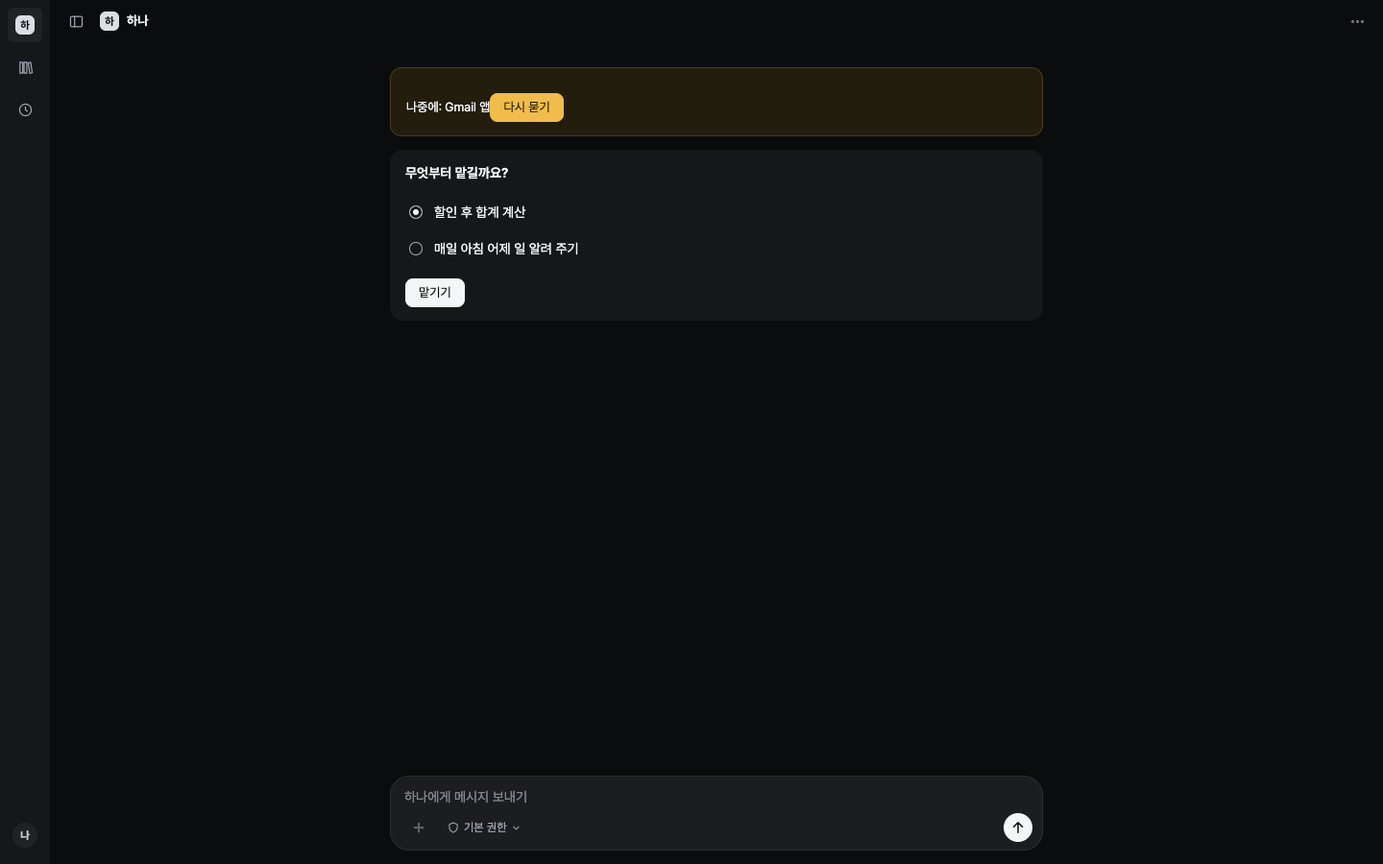
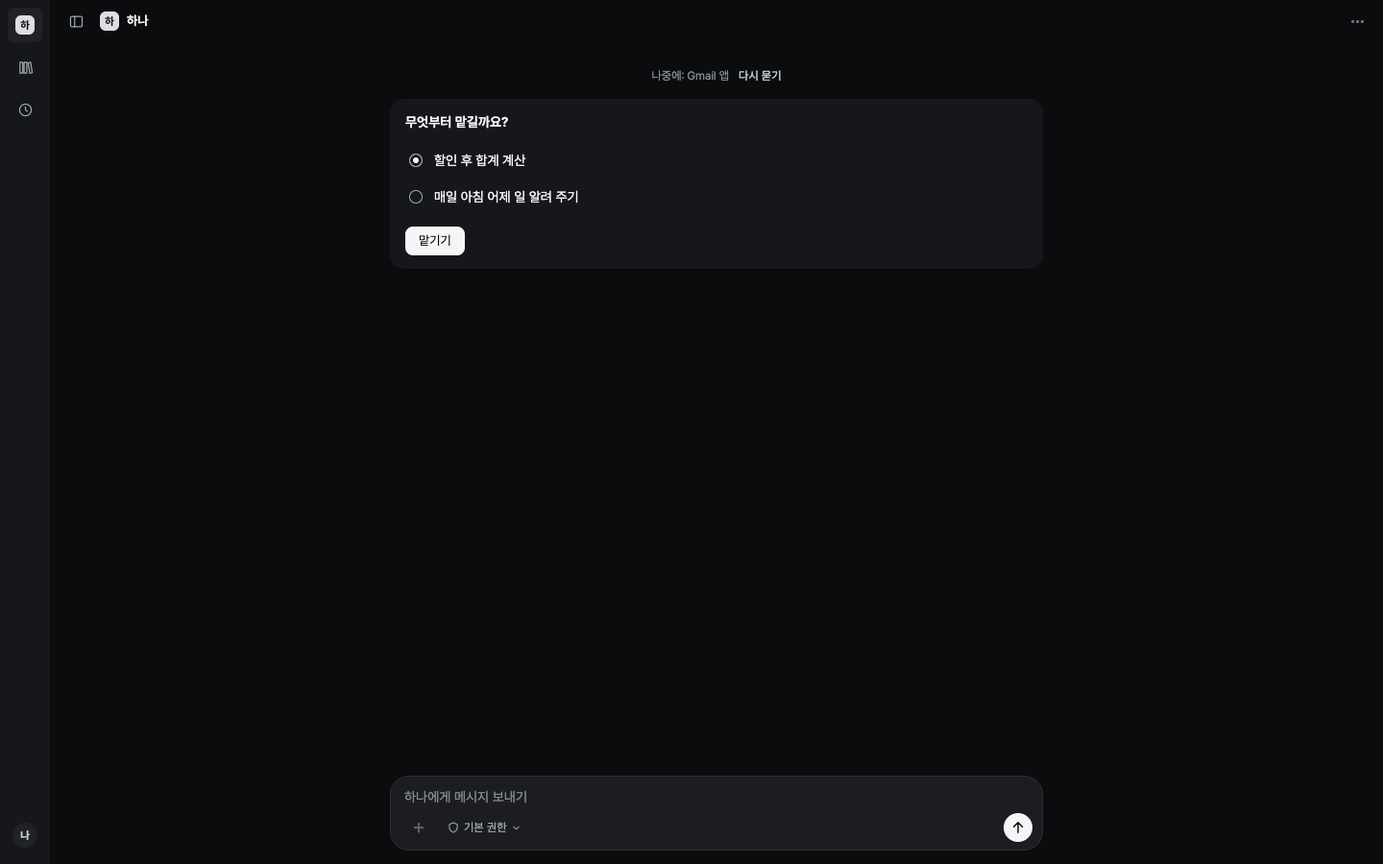
fix(ui): fence onboarding and match first experience artboards

Changed region(s): [[0.2812, 0.0933, 0.4062, 0.3733], [0.4688, 0.0622, 0.5625, 0.0933]]

diff --git a/src/first-experience.ts b/src/first-experience.ts
@@ -1,10 +1,10 @@
 import {copy} from './ui-copy.ts';
-export const firstStyle=String.raw`.first-signin.page-body{height:100vh;width:100%;display:grid;place-content:center;padding:24px;text-align:center}.first-signin-actions{display:grid;gap:10px;width:min(300px,calc(100vw - 48px))}.first-logo{display:grid;place-items:center;width:44px;height:44px;margin:0 auto 8px;border:1px solid var(--line-strong);border-radius:12px;font-size:22px;font-weight:650}.first-signin h1{font-size:28px;letter-spacing:-.03em;margin-bottom:24px}.first-signin button{background:var(--fg);color:var(--bg-0);border-color:var(--line);font-size:14px}.first-signin #first-chatgpt{background:transparent;color:var(--fg);border-color:var(--line-strong)}.first-signin a{text-decoration:none;color:var(--fg-3);font-size:13px;margin-top:10px}.first-signin p{font-size:13px;color:var(--fg-3)}.first-options{display:flex;flex-wrap:wrap;gap:8px}.app .first-options a{padding:7px 12px;border:1px solid var(--line);border-radius:var(--chip-radius);color:var(--fg);text-decoration:none;font-size:13px}.first-picker{padding:14px 16px;border-radius:14px;background:var(--bg-1)}.first-picker p{margin:0 0 10px;font-weight:600}.first-picker [role=radiogroup]{display:grid}.app .first-radio{display:flex;align-items:center;gap:12px;min-height:38px;padding:6px 4px;border:0;background:transparent;color:var(--fg);font-size:14px;text-align:left;font-weight:400}.first-radio::before{content:'';width:14px;height:14px;border:1px solid var(--fg-3);border-radius:50%;box-sizing:border-box;flex:none}.first-radio[aria-checked=true]::before{background:var(--fg);box-shadow:inset 0 0 0 3px var(--bg-1)}.first-picker>a,.first-mail a{display:inline-flex;align-items:center;min-height:30px;padding:4px 14px;margin-top:12px;border-radius:8px;background:var(--fg);color:var(--bg-0);text-decoration:none;font-size:13px}.first-mail{align-self:stretch}.first-mail p{margin:0}.first-mail a{margin-right:8px;background:var(--gate);color:var(--gate-ink)}.first-mail a.secondary{background:transparent;border:1px solid var(--line-strong);color:var(--fg)}.first-options a:hover,.first-radio:hover{background:var(--bg-3)}`;
-export const firstPanel=String.raw`<section id="first-signin" class="first-signin page-body" aria-labelledby="first-title" hidden><div class="first-signin-actions"><span class="first-logo" aria-hidden="true">${copy('page.heading.01')[0]}</span><h1 id="first-title">${copy('page.heading.01')}</h1><button id="first-claude" type="button">${copy('page.button.02')}</button><button id="first-chatgpt" type="button">${copy('page.button.01')}</button><a id="first-other" href="#">${copy('page.link.05')}</a><p id="first-login-status" role="status" hidden></p><button id="first-login-check" type="button" hidden>${copy('ui.first.login-check')}</button></div></section>`;
+export const firstStyle=String.raw`.first-signin.page-body{height:100vh;width:100%;display:grid;place-content:center;padding:24px;text-align:center}.first-signin-actions{display:grid;gap:10px;width:min(300px,calc(100vw - 48px))}.first-logo{display:grid;place-items:center;width:44px;height:44px;margin:0 auto 8px;border:1px solid var(--line-strong);border-radius:12px;font-size:22px;font-weight:650}.first-signin h1{font-size:28px;letter-spacing:-.03em;margin-bottom:24px}.first-signin button{background:var(--fg);color:var(--bg-0);border-color:var(--line);font-size:14px}.first-signin #first-chatgpt{background:transparent;color:var(--fg);border-color:var(--line-strong)}.first-signin a{text-decoration:none;color:var(--fg-3);font-size:13px;margin-top:10px}.first-signin p{font-size:13px;color:var(--fg-3)}.app .first-suggestions>a{display:flex;align-items:center;gap:12px;width:100%;min-height:38px;margin:0;padding:0 4px;border:0;border-radius:8px;background:transparent;color:var(--fg);text-decoration:none;font-size:14px}.first-letter{display:grid;place-items:center;flex:none;width:24px;height:24px;border-radius:6px;background:var(--bg-3);color:var(--fg-3);font-size:12px}.app .first-suggestions>a:last-child{color:var(--fg-3)}.app #first-mail-ask{padding:0;border:0;background:transparent;color:var(--fg-2);font:inherit;text-decoration:none}.first-picker{padding:14px 16px;border-radius:14px;background:var(--bg-1)}.first-picker p{margin:0 0 10px;font-weight:600}.first-picker [role=radiogroup]{display:grid}.app .first-radio{display:flex;align-items:center;gap:12px;min-height:38px;padding:6px 4px;border:0;background:transparent;color:var(--fg);font-size:14px;text-align:left;font-weight:400}.first-radio::before{content:'';width:14px;height:14px;border:1px solid var(--fg-3);border-radius:50%;box-sizing:border-box;flex:none}.first-radio[aria-checked=true]::before{background:var(--fg);box-shadow:inset 0 0 0 3px var(--bg-1)}.first-picker>a,.first-mail a{display:inline-flex;align-items:center;min-height:30px;padding:4px 14px;margin-top:12px;border-radius:8px;background:var(--fg);color:var(--bg-0);text-decoration:none;font-size:13px}.first-mail{align-self:stretch}.first-mail p{margin:0}.first-mail a{margin-right:8px;background:var(--gate);color:var(--gate-ink)}.first-mail a.secondary{background:transparent;border:1px solid var(--line-strong);color:var(--fg)}.app .first-suggestions>a:hover,.first-radio:hover{background:var(--bg-3)}`;
+export const firstPanel=String.raw`<div role="region" id="first-signin" class="first-signin page-body" aria-labelledby="first-title" hidden><div class="first-signin-actions"><span class="first-logo" aria-hidden="true">${copy('page.heading.01')[0]}</span><h1 id="first-title">${copy('page.heading.01')}</h1><button id="first-claude" type="button">${copy('page.button.02')}</button><button id="first-chatgpt" type="button">${copy('page.button.01')}</button><a id="first-other" href="#">${copy('page.link.05')}</a><p id="first-login-status" role="status" hidden></p><button id="first-login-check" type="button" hidden>${copy('ui.first.login-check')}</button></div></div>`;
 export const firstClient=String.raw`
-let firstPicker=false,firstSelected='calculation',firstOther=false,firstLoginBusy=false;
+let firstReset=false,firstPicker=false,firstSelected='calculation',firstOther=false,firstLoginBusy=false;
 const firstLoginCommands=new Map();
-function firstEmpty(){return !!chatView&&!chatThread&&!chatSegment&&!chatView.turns.length&&!shellWorks.length&&!chatView.segment?.messages.some(m=>m.role==='owner');}
+function firstEmpty(){return !firstReset&&Array.isArray(connectionCatalog?.logins)&&!!chatView&&!chatThread&&!chatSegment&&!chatView.turns.length&&!shellWorks.length&&!chatView.segment?.messages.some(m=>m.role==='owner');}
 function firstRoute(){const logins=connectionCatalog?.logins,signin=firstEmpty()&&!firstOther&&Array.isArray(logins)&&!logins.some(l=>l.status==='detected')&&!connectionCatalog.connections.length;$('first-signin').hidden=!signin;$('app').hidden=signin;}
 function firstLink(id,label,run){const link=element('a',label);link.id=id;link.href='#';if(id==='first-mail-later')link.className='secondary';link.addEventListener('click',event=>{event.preventDefault();void run();});return link;}
 function firstMailKey(){return 'massion.first-mail:'+chatView.feedId;}
@@ -22,15 +22,15 @@ function firstItems(){
  if(firstPicker||mail){
   if(!chatView.apps?.some(a=>a.id==='gmail')){
    const later=storage.get(firstMailKey())==='later'||mail?.state==='later';
-   if(later)items.push(chatKeyed('first-mail','p','chat-system','later',()=>[element('span',copy('ui.first.mail-later')),firstLink('first-mail-ask',copy('conversation.button.06'),()=>{storage.remove(firstMailKey());renderChat();})]));
-   else items.push(chatKeyed('first-mail','section','chat-decision first-mail','open',()=>[element('p',copy('ui.first.mail-question')),firstLink('first-mail-connect',copy('conversation.button.12'),()=>{shellShow('settings');settingsOpen('apps');}),firstLink('first-mail-later',copy('conversation.button.04'),()=>{storage.set(firstMailKey(),'later');renderChat();})]));
+   if(later)items.push(chatKeyed('first-mail-later','p','chat-system','later',()=>[element('span',copy('ui.first.mail-later')),firstLink('first-mail-ask',copy('conversation.button.06'),()=>{storage.remove(firstMailKey());renderChat();})]));
+   else items.push(chatKeyed('first-mail-open','section','chat-decision first-mail','open',()=>[element('p',copy('ui.first.mail-question')),firstLink('first-mail-connect',copy('conversation.button.12'),()=>{shellShow('settings');settingsOpen('apps');}),firstLink('first-mail-later',copy('conversation.button.04'),()=>{storage.set(firstMailKey(),'later');renderChat();})]));
   }
   items.push(chatKeyed('first-picker','section','first-picker',firstSelected,()=>{const group=element('div');group.setAttribute('role','radiogroup');group.setAttribute('aria-label',copy('ui.member-work'));
    for(const [value,key] of [['calculation','conversation.link.26'],['daily','conversation.link.17']]){const radio=chatButton(copy(key),()=>firstPick(value),'first-radio');radio.id='first-radio-'+value;radio.setAttribute('role','radio');radio.setAttribute('aria-checked',String(firstSelected===value));radio.tabIndex=firstSelected===value?0:-1;radio.addEventListener('keydown',event=>{if(['ArrowUp','ArrowDown','ArrowLeft','ArrowRight'].includes(event.key)){event.preventDefault();firstPick(value==='calculation'?'daily':'calculation');document.getElementById('first-radio-'+firstSelected)?.focus();}});group.append(radio);}
    return [element('p',copy('ui.first.question')),group,firstLink('first-assign',copy('conversation.button.08'),firstAssign)];}));
  }else{
-  if(!chatView.segment?.messages.length)items.push(chatMessage({id:'first-greeting',role:'representative',text:copy('ui.first.greeting',{member:chatName()})+'\n'+copy('ui.first.question')},null));
-  items.push(chatKeyed('first-suggestions','div','first-options','suggestions',()=>[['summary','conversation.link.18'],['calculation','conversation.link.26'],['daily','conversation.link.17'],['other','conversation.link.16']].map(([value,key])=>firstLink('first-'+value,copy(key),()=>{if(value==='other'||value==='summary'){$('chat-input').value=value==='summary'?copy(key):'';$('chat-input').focus();chatControls();}else firstPick(value);}))))
+  if(!chatView.segment?.messages.length)items.push(chatMessage({id:'first-greeting',role:'representative',text:copy('ui.first.greeting',{member:chatName()})},null));
+  items.push(chatKeyed('first-suggestions','section','first-picker first-suggestions','suggestions',()=>[element('p',copy('ui.first.question')),...[['summary','conversation.link.18'],['calculation','conversation.link.26'],['daily','conversation.link.17'],['other','conversation.link.16']].map(([value,key],index)=>{const letter=element('span',String.fromCharCode(65+index),'first-letter');letter.setAttribute('aria-hidden','true');const link=firstLink('first-'+value,'',()=>{if(value==='other'||value==='summary'){$('chat-input').value=value==='summary'?copy(key):'';$('chat-input').focus();chatControls();}else firstPick(value);});link.append(letter,element('span',copy(key)));return link;})]));
  }
  return items;
 }

diff --git a/src/surface-shell.ts b/src/surface-shell.ts
@@ -38,7 +38,7 @@ async function shellWorksLoad(){const sequence=++shellWorksSequence,expectedFeed
   if(shellWorksFeed&&shellWorksFeed!==body.feedId)storage.remove(seenKey);shellWorksFeed=body.feedId;shellWorks=body.works.filter(shellWorkValid);if(chatView)renderChat();else renderShell();if(!$('page-results').hidden)renderResults();
  }catch{}finally{if(sequence===shellWorksSequence)chatScheduleRead();}
 }
-function shellShow(page){$('sidebar-controls').append($('sidebar-search'));for(const [name,[id,title,rail]] of Object.entries(shellPages)){$(id).hidden=name!==page;if(rail)$(rail).setAttribute('aria-current',name===page?'page':'false');if(name===page){if(name==='chat')shellHeading();else $('page-heading').textContent=title;}}$('side-representative').setAttribute('aria-current',page==='chat'&&!chatThread?'page':'false');shellMembers();
+function shellShow(page){$('header-more').hidden=false;$('sidebar-controls').append($('sidebar-search'));for(const [name,[id,title,rail]] of Object.entries(shellPages)){$(id).hidden=name!==page;if(rail)$(rail).setAttribute('aria-current',name===page?'page':'false');if(name===page){if(name==='chat')shellHeading();else $('page-heading').textContent=title;}}$('side-representative').setAttribute('aria-current',page==='chat'&&!chatThread?'page':'false');shellMembers();
   // Results, Schedules and Settings bring their own sidebar (B10, B17, B12); the people and activity views come back with the conversation.
   const own=page==='results'||page==='schedules'||page==='settings'||page==='app',activity=shellActivity;$('side-app').hidden=page!=='app';appsCurrent();$('side-results').hidden=page!=='results';$('side-schedules').hidden=page!=='schedules';$('side-settings').hidden=page!=='settings';$('side-people').hidden=own;$('side-activity').hidden=own||!activity;$('activity-toggle').hidden=own;$('sidebar-search').hidden=page==='settings';if(own)shellSearch(false);shellProfile(false);shellMenu('header-more','header-menu',false);
   if(page==='results')void resultsLoad();if(page==='schedules')void schedulesLoad();if(page==='settings')settingsOpen('general');paneAway(true);}
@@ -62,7 +62,7 @@ function shellBusyAvatar(avatar,member,busy){avatar.setAttribute('data-busy',Str
 function shellWorkIdentity(avatar,label,work){const member=work&&work.memberId?chatMembers().find(m=>m.id===work.memberId):null,name=member?member.name:work&&work.memberId?'':'${representativeName}';avatar.textContent=[...name][0]||'';shellLook(avatar,member);shellBusyAvatar(avatar,member,!!work&&shellWorkBusy(work));if(label)label.textContent=name;}
 function shellWorkLines(box,memberId){box.replaceChildren(...shellWorks.filter(w=>w.memberId===memberId).map(work=>{const row=element('li'),open=element('button',undefined,'work-line');open.type='button';open.id='side-line-'+shellKey(work);const state=shellState(work),chevron=element('span',undefined,'work-chevron');chevron.setAttribute('aria-hidden','true');open.append(element('span',work.title),chevron,state);open.addEventListener('click',()=>void shellOpenWork(work.turnId));row.append(open);return row;}));}
 /** The conversation header: the shown conversation's avatar, as in the sidebar, then its name. */
-function shellHeading(){const name=chatName();let profile=document.getElementById('header-profile');if(!profile){const avatar=element('span',undefined,'avatar');avatar.setAttribute('aria-hidden','true');profile=element('button',undefined,'header-profile');profile.type='button';profile.id='header-profile';profile.addEventListener('click',()=>{if(shellActivity&&!chatThread){shellProfile($('shell-profile').hidden);return;}const member=chatThread;shellShow('settings');if(member){settingsOpen('members');settingsMember=member;renderSettings();}$('page-heading').focus();});$('page-heading').replaceChildren(avatar,profile);}profile.setAttribute('aria-label',name);profile.textContent=name;const avatar=$('page-heading').children[0];avatar.textContent=[...name][0];shellLook(avatar,chatMembers().find(m=>m.id===chatThread));const busy=!!chatThread&&paneTabs.some(t=>t.key===paneActive&&t.workId)&&shellWorks.some(w=>w.memberId===chatThread&&shellWorkBusy(w));shellBusyAvatar(avatar,chatMembers().find(m=>m.id===chatThread),busy);avatar.setAttribute('aria-hidden','true');avatar.removeAttribute('role');avatar.removeAttribute('aria-label');let state=document.getElementById('header-work-state');if(!state){state=element('span',copy('sidebar.status.05'),'visually-hidden');state.id='header-work-state';state.setAttribute('role','status');$('page-heading').append(state);}state.hidden=!busy;state.textContent=busy?copy('sidebar.status.05'):'';}
+function shellHeading(){$('header-more').hidden=firstEmpty()&&!firstPicker;const name=chatName();let profile=document.getElementById('header-profile');if(!profile){const avatar=element('span',undefined,'avatar');avatar.setAttribute('aria-hidden','true');profile=element('button',undefined,'header-profile');profile.type='button';profile.id='header-profile';profile.addEventListener('click',()=>{if(shellActivity&&!chatThread){shellProfile($('shell-profile').hidden);return;}const member=chatThread;shellShow('settings');if(member){settingsOpen('members');settingsMember=member;renderSettings();}$('page-heading').focus();});$('page-heading').replaceChildren(avatar,profile);}profile.setAttribute('aria-label',name);profile.textContent=name;const avatar=$('page-heading').children[0];avatar.textContent=[...name][0];shellLook(avatar,chatMembers().find(m=>m.id===chatThread));const busy=!!chatThread&&paneTabs.some(t=>t.key===paneActive&&t.workId)&&shellWorks.some(w=>w.memberId===chatThread&&shellWorkBusy(w));shellBusyAvatar(avatar,chatMembers().find(m=>m.id===chatThread),busy);avatar.setAttribute('aria-hidden','true');avatar.removeAttribute('role');avatar.removeAttribute('aria-label');let state=document.getElementById('header-work-state');if(!state){state=element('span',copy('sidebar.status.05'),'visually-hidden');state.id='header-work-state';state.setAttribute('role','status');$('page-heading').append(state);}state.hidden=!busy;state.textContent=busy?copy('sidebar.status.05'):'';}
 /** Members under the Representative, in admission order; rows are kept by ID so a reread keeps focus. The host picks each colour. */
 function shellMembers(){
  const list=chatMembers(),chat=!$('page-chat').hidden;$('side-members').hidden=!list.length;$('side-work').hidden=shellActivity;

diff --git a/src/assistant-conversation-panel.ts b/src/assistant-conversation-panel.ts
@@ -54,7 +54,7 @@ function chatConnection(disconnected){chatDisconnected=disconnected;const status
 function chatClearFailed(){if(!chatSendFailed)return;chatSendFailed=false;chatConnection(chatDisconnected);chatShow('');}
 function chatFailed(failed){const key=failed.key,current=chatDraft();chatSendFailed=true;chatConnection(chatDisconnected);if(current.delivery!=='not-delivered'||chatDraftKey!==key||current.commandId!==failed.commandId||current.text!==failed.text||$('chat-input').value!==failed.text){chatShow(copy('conversation.text.01'));return;}const status=$('chat-status');status.replaceChildren(element('span',copy('ui.not-sent')+' · ','chat-send-failure'),chatButton(copy('composer.button.02'),()=>{const draft=chatDraft();if(draft.delivery==='not-delivered'&&chatDraftKey===key&&draft.commandId===failed.commandId&&draft.text===failed.text&&$('chat-input').value===failed.text)return sendChat();},''));status.hidden=false;}
 function chatShow(text){$('chat-status').textContent=text;$('chat-status').hidden=!text;}
-function chatControls(){const prompt=!firstPicker&&firstEmpty()?copy('composer.textbox.01'):copy('ui.message',{member:chatName()});$('chat-input').setAttribute('placeholder',prompt);$('chat-input').setAttribute('aria-label',prompt);chatSize();$('chat-send').disabled=chatSending||chatDraft().delivery==='unknown';$('chat-earlier').hidden=!(chatView&&chatView.segment&&chatView.segment.previous);$('chat-latest').hidden=!chatSegment;}
+function chatControls(){const prompt=!firstPicker&&!chatThread&&(chatView?.segment?!chatView.segment.messages.some(m=>m.role==='owner'):firstEmpty())?copy('composer.textbox.01'):copy('ui.message',{member:chatName()});$('chat-input').setAttribute('placeholder',prompt);$('chat-input').setAttribute('aria-label',prompt);chatSize();$('chat-send').disabled=chatSending||chatDraft().delivery==='unknown';$('chat-earlier').hidden=!(chatView&&chatView.segment&&chatView.segment.previous);$('chat-latest').hidden=!chatSegment;}
 const chatTime=at=>new Date(at).toLocaleTimeString('en-GB',{hour:'2-digit',minute:'2-digit'}),chatDay=at=>{const date=new Date(at);return copy('ui.date',{month:date.getMonth()+1,day:date.getDate(),weekday:'('+copy('ui.weekday-'+date.getDay()).slice(0,1)+')'})};
 /** What a turn's slot shows (conversation-cards.md): a card while open, then a folded line, with an exception card or a grey line when it ended badly or was closed. */
 function chatKind(turn){const w=turn.work;if(!w)return turn.outcome&&turn.outcome.work.status==='unknown'?'unknown':'card';
@@ -248,7 +248,7 @@ function chatScheduleRead(){
 }
 /** A replaced database invalidates every shown message and card: clear them and read the conversation of the current one. */
 // A replaced database may not hold the open member, so the conversation falls back to the Representative and its draft.
-function chatReset(){protocol.invalidate('chat-view');++chatGeneration;firstPicker=false;firstOther=false;firstSelected='calculation';firstLoginCommands.clear();++shellWorksSequence;shellWorks=[];shellWorksFeed='';paneTabs=[];paneActive='';paneMission='';storage.remove(seenKey);renderPane();chatThread='';chatThreadName='';chatDraftKey='massion.workbench.chat-draft';chatRestoreDraft();$('chat-input').setAttribute('placeholder',copy('ui.message',{member:chatName()}));$('chat-input').setAttribute('aria-label',copy('ui.message',{member:chatName()}));if(!$('page-chat').hidden)shellShow('chat');chatView=null;chatRep=null;chatSegment=null;chatCards.clear();chatNodes.clear();$('chat-log').replaceChildren();$('chat-scroll').scrollTop=0;chatNewReply=false;chatJump();chatControls();renderShell();void readChat();}
+function chatReset(){protocol.invalidate('chat-view');++chatGeneration;firstReset=true;firstPicker=false;firstOther=false;firstSelected='calculation';firstLoginCommands.clear();++shellWorksSequence;shellWorks=[];shellWorksFeed='';paneTabs=[];paneActive='';paneMission='';storage.remove(seenKey);renderPane();chatThread='';chatThreadName='';chatDraftKey='massion.workbench.chat-draft';chatRestoreDraft();$('chat-input').setAttribute('placeholder',copy('ui.message',{member:chatName()}));$('chat-input').setAttribute('aria-label',copy('ui.message',{member:chatName()}));if(!$('page-chat').hidden)shellShow('chat');chatView=null;chatRep=null;chatSegment=null;chatCards.clear();chatNodes.clear();$('chat-log').replaceChildren();$('chat-scroll').scrollTop=0;chatNewReply=false;chatJump();chatControls();renderShell();void readChat();}
 /** A Representative turn by ID, also one a briefing carries from an earlier segment, so its Work links open. */
 function chatWorkTurn(turnId){const listed=shellWorks.find(w=>w.turnId===turnId);if(listed)return {id:turnId,work:listed};if(!chatRep)return;return chatRep.turns.find(t=>t.id===turnId)??(Array.isArray(chatRep.briefings)?chatRep.briefings:[]).flatMap(b=>b&&Array.isArray(b.turns)?b.turns:[]).find(t=>t&&t.id===turnId);}
 async function openChatWork(turnId){const turn=chatWorkTurn(turnId);if(!turn||!turn.work||busy||loading)return;const loaded=await loadMission(turn.work.missionId);if(!loaded||!snapshot||snapshot.value.id!==turn.work.missionId)return;document.getElementById('work-heading-'+turn.work.workId)?.focus();}

diff --git a/tests/first-experience.test.ts b/tests/first-experience.test.ts
@@ -1,5 +1,6 @@
 import test from 'node:test';
 import assert from 'node:assert/strict';
+import {runInContext} from 'node:vm';
 import {workbenchPage} from '../src/workbench.ts';
 import {harness,reply,settle} from './support/workbench-client.ts';
 import {loadFixture} from '../scripts/ui-contracts/fixture-host.ts';
@@ -82,4 +83,27 @@ test('a new conversation without a stored segment shows the same greeting and re
  const app=harness(async path=>{const route=f.routes[path]??(path.startsWith('/events?')?f.routes['/events']:undefined);return reply(route?.body??{},route?.status??503);});await settle();
  assert.match(app.node('chat-log').textContent,/안녕하세요, 하나예요/);assert.equal(app.node('chat-input').attributes.get('aria-label'),'답변을 입력하거나 다른 이야기를 하세요');
  assert.equal(app.calls.filter(c=>c.options?.method==='POST').length,0);
+});
+test('B1 keeps its greeting separate from the four lettered choices and omits the extra header menu',async()=>{
+ const {app}=await first();const greeting=find(app,'chat-message-first-greeting')!,card=find(app,'chat-first-suggestions')!;
+ assert.equal(greeting.textContent,'안녕하세요, 하나예요.');assert.equal(card.tagName,'SECTION');assert.match(card.className,/first-picker/);
+ assert.equal(card.children[0]!.textContent,'무엇부터 맡길까요?');assert.equal(card.children.length,5);
+ assert.deepEqual(card.children.slice(1).map(row=>[row.tagName,row.children[0]!.textContent,row.children[0]!.attributes.get('aria-hidden')]),['A','B','C','D'].map(letter=>['A',letter,'true']));
+ assert.equal(app.node('header-more').hidden,true);
+ await find(app,'first-calculation')!.fire('click');assert.equal(app.node('header-more').hidden,false);
+});
+test('deferring Gmail replaces the decision card with a plain paragraph and a text link, then restores the card on ask again',async()=>{
+ const {app}=await first();await find(app,'first-calculation')!.fire('click');await find(app,'first-mail-later')!.fire('click');
+ const ask=find(app,'first-mail-ask')!,line=ask.parentElement!;assert.equal(line.tagName,'P');assert.equal(line.className,'chat-system');assert.equal(line.children[0]!.textContent,'나중에: Gmail 앱');assert.equal(ask.tagName,'A');
+ await ask.fire('click');const later=find(app,'first-mail-later')!;assert.equal(later.parentElement!.tagName,'SECTION');assert.match(later.parentElement!.className,/chat-decision/);
+});
+test('a database reset cannot restart onboarding from a cached or refreshed login catalog',async()=>{
+ const {app,posted}=await first();assert.ok(find(app,'chat-first-suggestions'));
+ await runInContext('chatReset()',app.context);await settle();assert.equal(app.node('chat-log').textContent,'');
+ await runInContext('refreshConnections()',app.context);await settle();assert.equal(app.node('chat-log').textContent,'');assert.equal(app.node('first-signin').hidden,true);assert.equal(app.node('app').hidden,false);assert.equal(posted.length,0);
+});
+test('an established configured connection opens conversation even when subscription detection finds nothing',async()=>{
+ const f=await loadFixture('B1-signin');(f.routes['/connections']!.body as any).connections=[{id:'existing',providerType:'compatible',label:'Existing',models:[]}];
+ const app=harness(async path=>{const route=f.routes[path]??(path.startsWith('/events?')?f.routes['/events']:undefined);return reply(route?.body??{},route?.status??503);});await settle();
+ assert.equal(app.node('first-signin').hidden,true);assert.equal(app.node('app').hidden,false);assert.equal(app.node('page-chat').hidden,false);assert.equal(app.calls.filter(c=>c.options?.method==='POST').length,0);
 });

diff --git a/src/workbench.ts b/src/workbench.ts
@@ -1617,7 +1617,7 @@ function connectionLocked(){return !connectionCatalog||reconnectRequired||busy||
 function connectionControls(){const locked=connectionBusy||connectionLocked();for(const button of connectionButtons)button.disabled=locked;$('connection-fields').disabled=connectionLocked()||connectionBusy&&!connectionReading||!connectionCatalog||!!connectionCatalog.host?.managed;}
 function installConnections(body){
  if(!body||!Array.isArray(body.providerTypes)||!Array.isArray(body.connections)||!body.runtime||!Array.isArray(body.runtime.connections)||!Array.isArray(body.runtime.authorizations))throw new Error(copy("legacy.invalid-connection-catalog"));
- connectionCatalog=body;firstRoute();runtimeConfiguration=body.runtime;executionDrafts.clear();providerNotice();if(snapshot)renderMission();renderConnections();
+ connectionCatalog=body;runtimeConfiguration=body.runtime;executionDrafts.clear();providerNotice();if(snapshot)renderMission();renderConnections();if(chatView)renderChat();else firstRoute();
 }
 function connectionField(form,title,node){const lab=element('label',title);if(node.id)lab.htmlFor=node.id;form.append(lab,node);return node;}
 async function connectionWrite(path,body){

diff --git a/docs/acceptance/e7/README.md b/docs/acceptance/e7/README.md
@@ -2,7 +2,7 @@
 
 Fixture-class evidence only. No real account login, credential-file read or model invocation was used for verification. Desktop security settings are unchanged.
 
-- Node 24.21.0: related tests passed 250, failed 0, skipped 10 after integrating main at `395193e`. The ten skipped cases require an actual SurrealDB test instance.
+- Node 24.21.0: review-fix related tests passed 289, failed 0, skipped 1. The skipped case requires an actual SurrealDB test instance.
 - `npm run typecheck`: passed.
 - Scoped copy lint: 29 files, no blocking findings; the new first-experience source is included in the keyed-copy gate.
 - Impeccable detector on the changed UI: no findings.
@@ -13,11 +13,15 @@ Fixture-class evidence only. No real account login, credential-file read or mode
 
 ```sh
 npm run typecheck
-node --test tests/first-experience.test.ts tests/members.test.ts tests/conversation-cards.test.ts tests/surface-shell.test.ts tests/ui-copy.test.ts tests/ui-copy-lint.test.ts tests/ui-contract-fixtures.test.ts tests/ui-contract-assets.test.ts tests/host-drain.test.ts tests/member-rooms.test.ts tests/member-work.test.ts tests/work-room-visual.test.ts tests/internal-teams-surface.test.ts tests/client-workbench.test.ts
+node --test tests/assistant-conversation.test.ts tests/member-work-surface.test.ts tests/first-experience.test.ts tests/conversation-cards.test.ts tests/surface-shell.test.ts tests/ui-copy.test.ts tests/ui-copy-lint.test.ts tests/ui-contract-fixtures.test.ts tests/ui-contract-assets.test.ts tests/work-room-visual.test.ts tests/settings-surface.test.ts tests/results-schedules-surface.test.ts
 UI_CONTRACTS_BLOCKING=1 UI_CONTRACTS_OUTPUT=docs/acceptance/e7 node scripts/ui-contracts/run.mjs B1 B1-signin B1-first B1-first-calc B1-first-later B21-done
 ```
 
 On macOS, set TMPDIR to a real directory under `/private/tmp`, as required by the repository brief. The checked runtime was Node 24.21.0. The full repository suite and all screen contracts are left to CI under the owner's verification budget.
+
+## Review-fix verification
+
+Reproduced the three CI regressions unchanged, then verified the existing conversation-first and database-reset/late-response tests pass. First-run UI now requires explicit login-detection metadata and cannot restart after a database reset. This adds no conversation read or command. Added regression coverage for a configured connection without a detected subscription, reset with cached/refreshed login metadata, the B1 lettered card and the deferred Gmail paragraph/link. Compared both themes against the artboards: B1 has a separate greeting, an A–D card and no extra header menu; B1-first-later uses a centered paragraph and text link, with distinct DOM identity from the approval card.
 
 ## Observed behavior and limits
 

diff --git a/docs/architecture/first-experience.md b/docs/architecture/first-experience.md
@@ -4,7 +4,7 @@
 
 Reuse the subscription CLI provider identities, bounded argv-only runner, connection catalog, conversation command and member admission truth. Detect login kind with the official CLIs' local status commands; discard raw output, email and account metadata. Presence does not establish validity, model availability, permission or a verified provider call. Detection never reads credential files or enrolls a connection, changes a manifest, selects models or widens live-execution authority.
 
-The first empty conversation shows Hana's greeting and approved suggestions. Selecting a suggestion opens the first Work picker. Only the owner's Assign action sends the selected request through the existing conversation command; merely rendering, selecting, deferring mail or asking again never runs anything. Mail deferral is a private, feed-bound browser preference; Gmail connection opens the existing Apps settings, whose actual installed connectors remain authoritative. No fictional Gmail authorization is added.
+The first empty conversation shows Hana's greeting and approved suggestions only after explicit login-detection metadata arrives. A database reset clears onboarding for that page lifetime; an empty replacement conversation never restarts it. The established conversation remains the first section and configured connections bypass sign-in. Selecting a suggestion opens the first Work picker. Only the owner's Assign action sends the selected request through the existing conversation command; merely rendering, selecting, deferring mail or asking again never runs anything. Mail deferral is a private, feed-bound browser preference; Gmail connection opens the existing Apps settings, whose actual installed connectors remain authoritative. No fictional Gmail authorization is added.
 
 First launch without a detected subscription or configured connection shows provider buttons. An explicit click starts the corresponding official CLI login, which opens its own browser flow. The host accepts fixed provider IDs and a command identity only, coalesces overlapping starts, retains unknown outcomes for the host lifetime and never resends the same login operation. Host drain aborts and awaits pending login processes. Authentication consumes no model call. CLI output and secret values never enter UI, logs or storage. No desktop security settings change.
 
